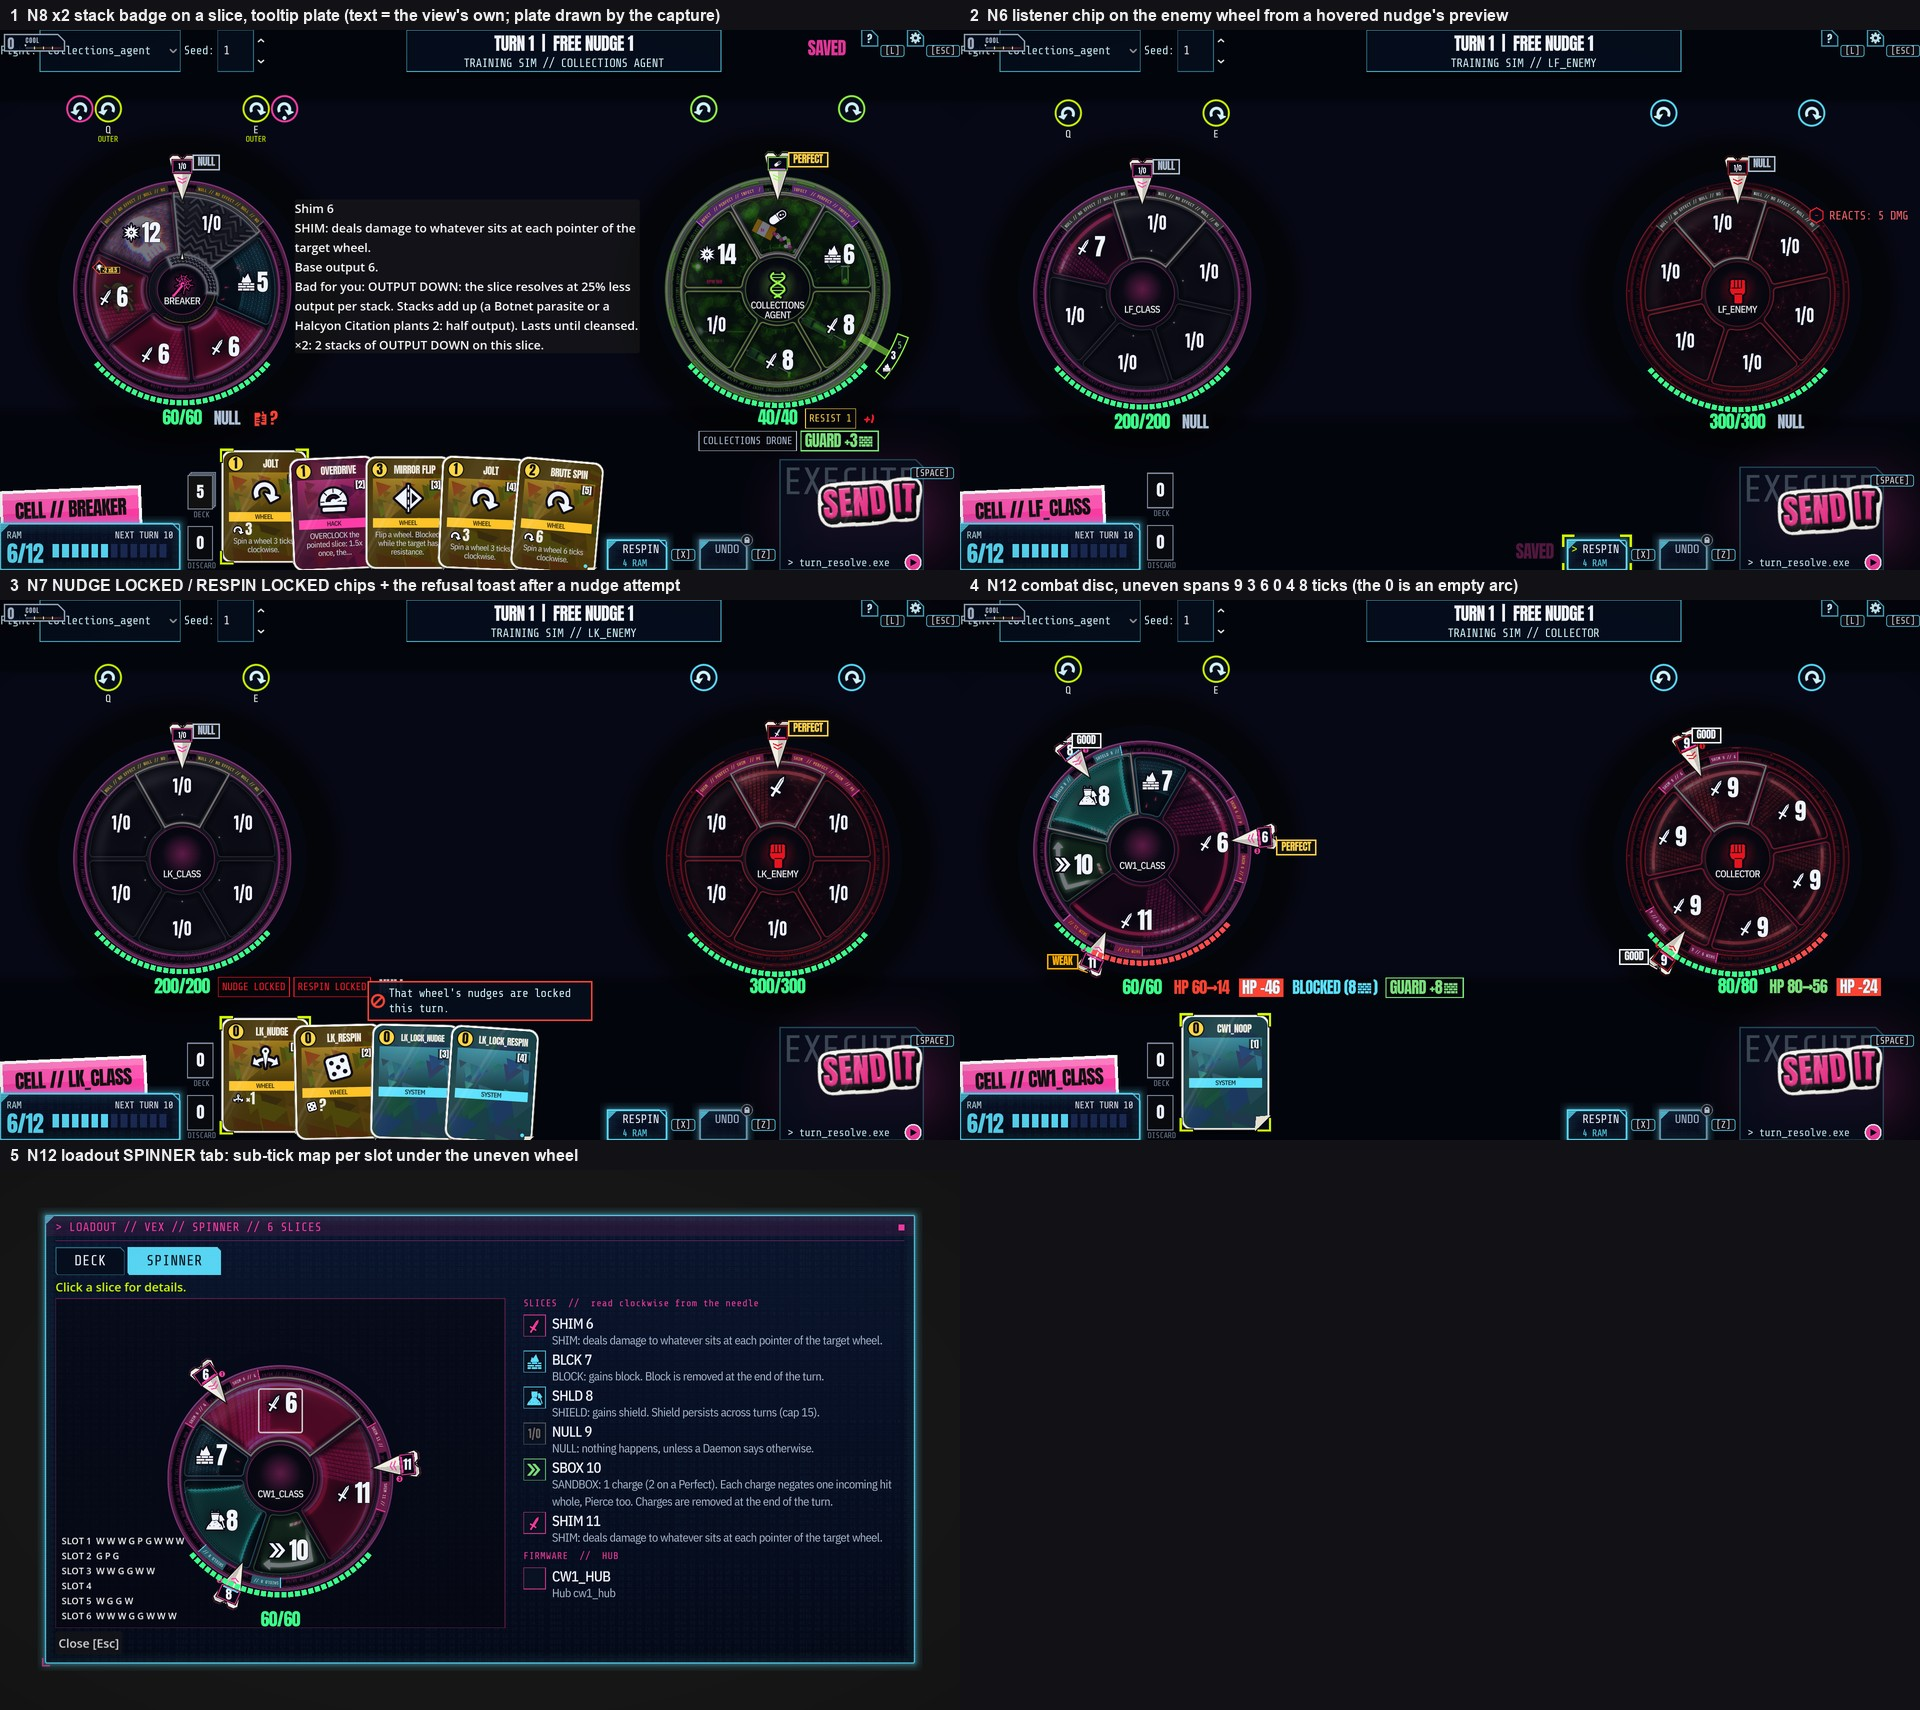
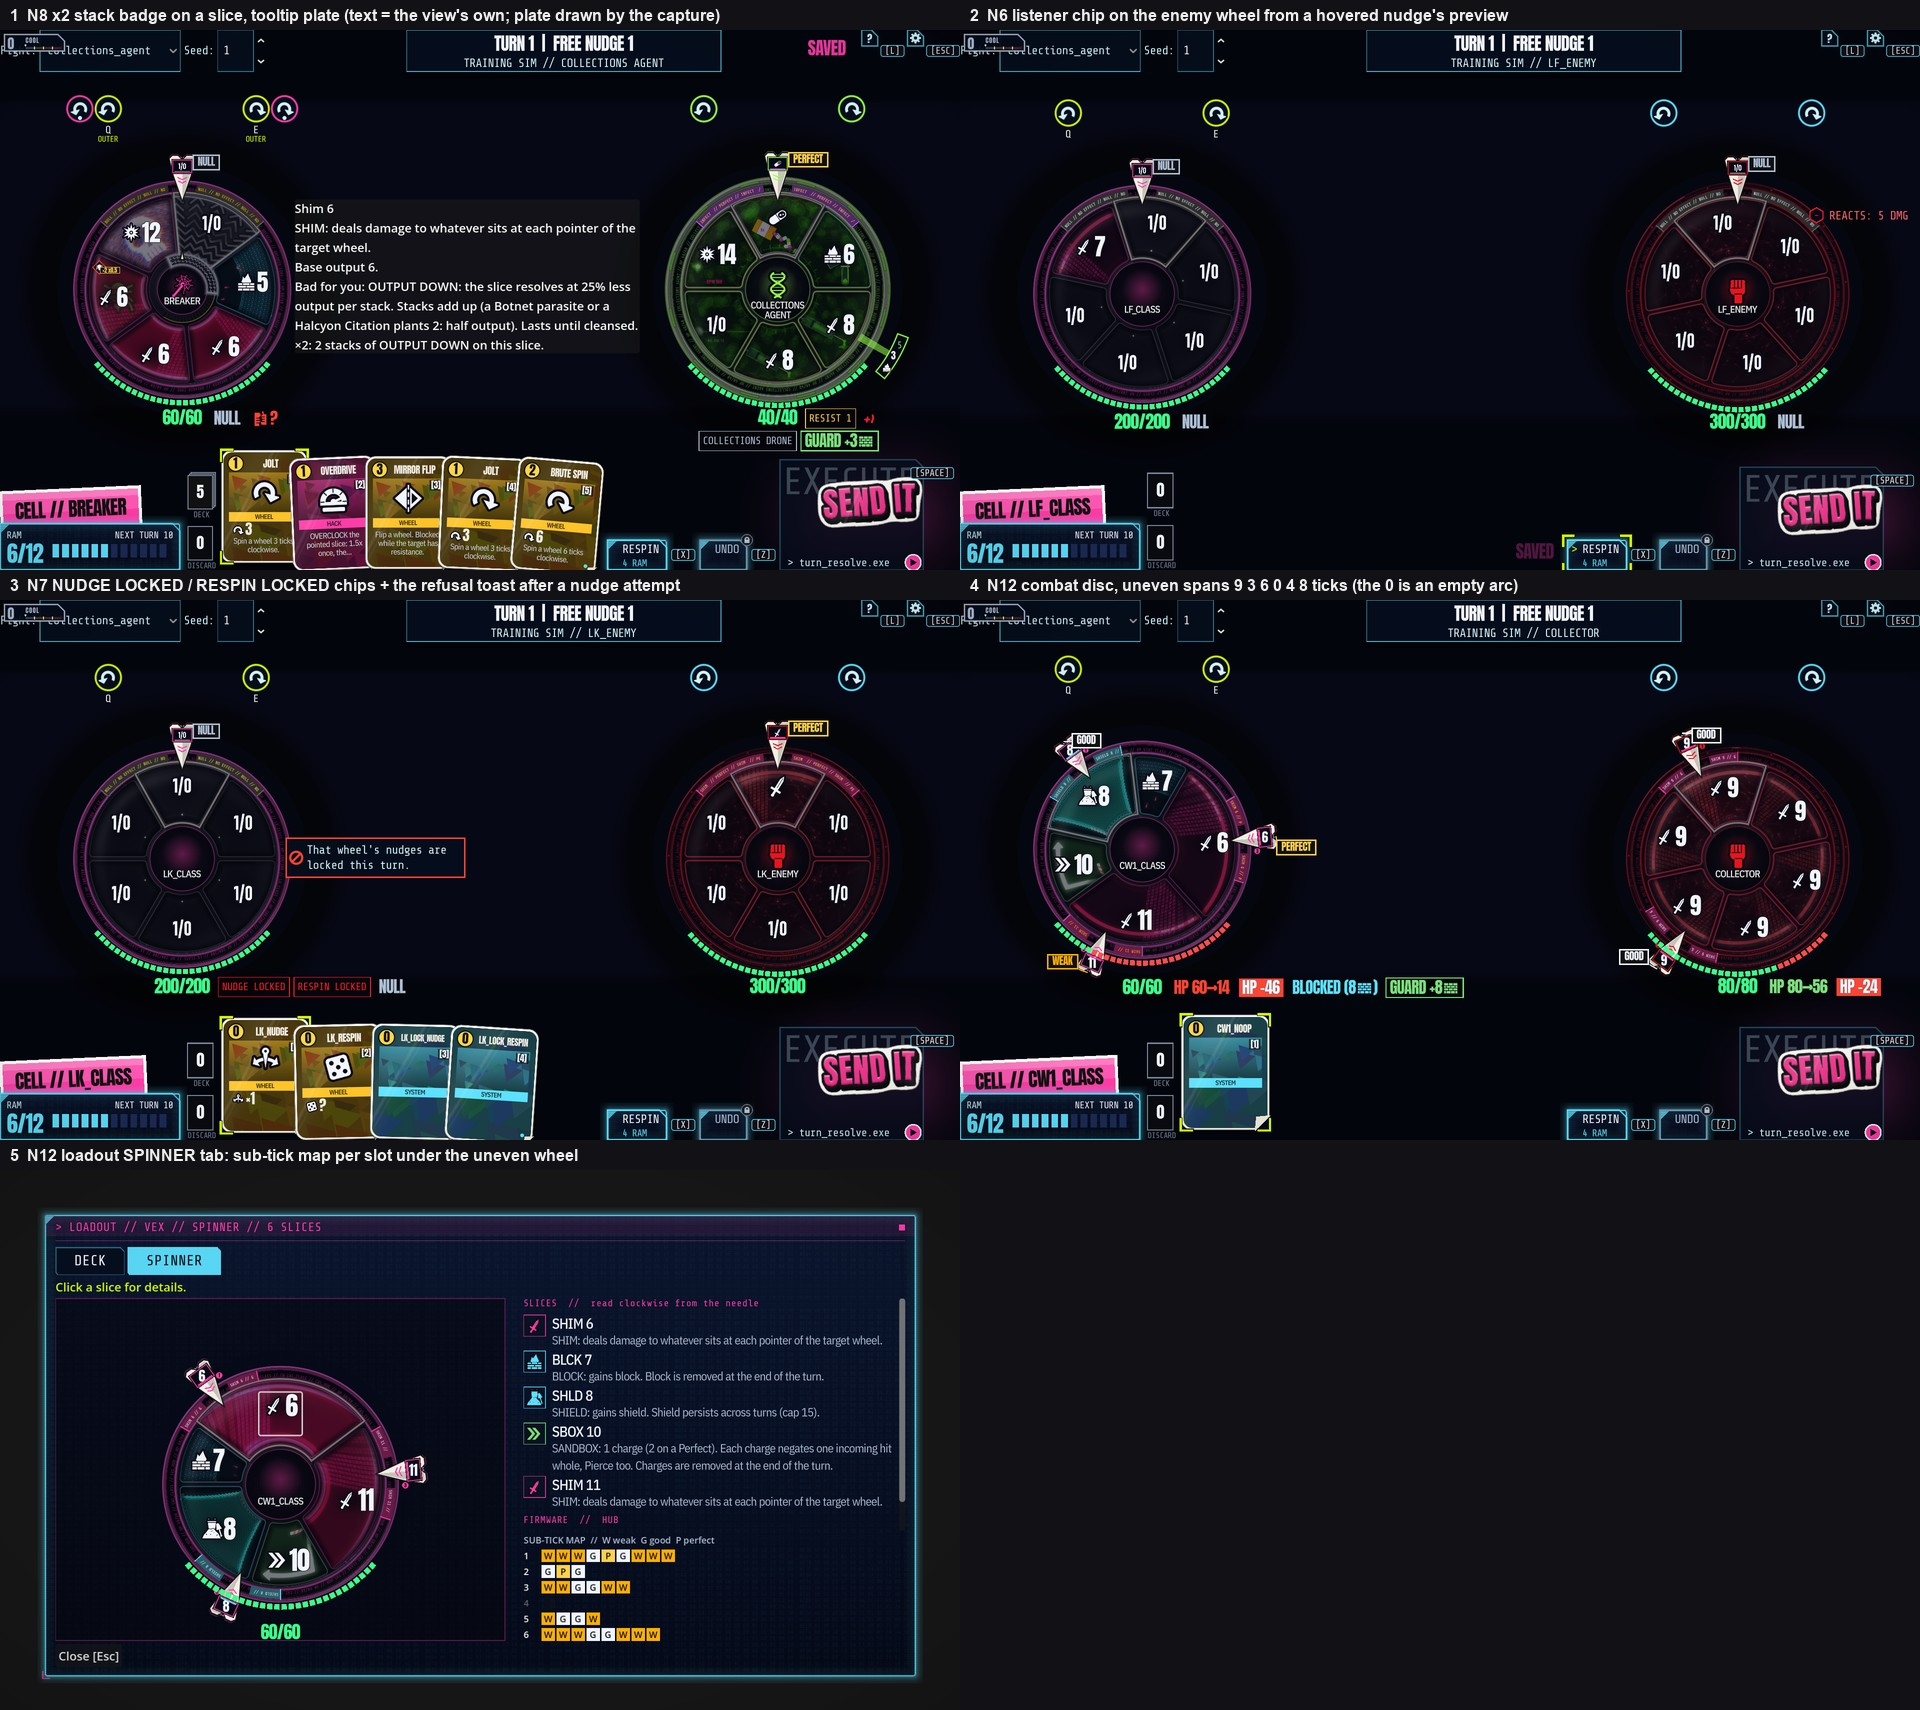
W1 N12b combat: CAP-W1 fixes (lock toast beside wheel, tick-cell sub-tick map, empty arc row hidden, span uniform removed)

Changed region(s): [[0.0312, 0.7439, 0.5, 0.9918], [0.1875, 0.5579, 0.3125, 0.6199], [0.125, 0.4959, 0.2188, 0.5269]]

diff --git a/docs/DECISIONS.md b/docs/DECISIONS.md
@@ -34,7 +34,7 @@ search every ruling with `grep -rn "<topic>" docs/DECISIONS.md docs/decisions/`.
 
 ## Implementation decisions
 
-- **2026-10-19 W1 N12b + CAP-W1: the combat disc draws uneven spans; capture sheet `docs/art_review/PLAN2/CAP_W1.jpg`.** The shader's single `span` is replaced by `spans[8]` (degrees per slot) fed by `WheelDisc.slot_spans(sizes, deg_per_tick)`, read off WheelMath's cumulative boundaries (`slot_starts`); the slice under a pixel is the arc it lies most inside (not the nearest middle), an empty arc (span 0) draws no tile and is never picked, and the lifted slice outline uses its own span. `WheelView` draws no face, badge, outline or wedge for a 0-size slot (before: its "1/0" label overprinted the neighbour). Test: `test_disc_shader_spans_equal_wheelmath_boundaries` (shader spans = boundary gaps = sizes, 0 for an empty arc, fill 360 degrees over 50 seeded layouts). Loadout sub-tick map: it already came from WheelMath (N12); it moved from the view's bottom-left (it overran the Close button) into the spinner wheel pool's bottom-left corner (`SpinnerView.add_wheel_note`, CAPTION font). Open (not changed): the loadout's slice list still has a row for an empty arc ("NULL 9"); the combat disc's old `span` uniform stays declared (unused default). CAP-W1 sheet panels: N8 x2 badge + tooltip (the tooltip plate is drawn by the capture: native tooltips never open in the quiet window; its text is the view's own `_slice_label`), N6 listener chip, N7 lock chips + refusal toast, N12 uneven disc, N12 loadout map. Capture: `tools/design_lab/plan2_w1_combat_capture.tscn`.
+- **2026-10-19 W1 N12b + CAP-W1: the combat disc draws uneven spans; capture sheet `docs/art_review/PLAN2/CAP_W1.jpg`.** The shader's single `span` is replaced by `spans[8]` (degrees per slot) fed by `WheelDisc.slot_spans(sizes, deg_per_tick)`, read off WheelMath's cumulative boundaries (`slot_starts`); the slice under a pixel is the arc it lies most inside (not the nearest middle), an empty arc (span 0) draws no tile and is never picked, and the lifted slice outline uses its own span. `WheelView` draws no face, badge, outline or wedge for a 0-size slot (before: its "1/0" label overprinted the neighbour). Test: `test_disc_shader_spans_equal_wheelmath_boundaries` (shader spans = boundary gaps = sizes, 0 for an empty arc, fill 360 degrees over 50 seeded layouts). Loadout sub-tick map: it already came from WheelMath (N12); it moved from the view's bottom-left (it overran the Close button) into the spinner wheel pool's bottom-left corner (`SpinnerView.add_wheel_note`, CAPTION font). Open (not changed): the loadout's slice list still has a row for an empty arc ("NULL 9"); the combat disc's old `span` uniform stays declared (unused default). **Art-pass fixes (CAP-W1 approved with two):** the lock refusal toast now stands beside the locked wheel (`Toast.show_beside`, `CombatScene._locked_view`), clear of the HP row, chips and NULL label; the loadout map is a row of cells per slot (slot number, one cell per tick, letter on `PointerTag.tint` of that tier, a dim empty row for an empty arc) pinned under the scrolling rows in the spinner's right column (`SpinnerView.add_rows_section`, `D4_MAP_H`); the empty arc's row is gone from the slice list; the unused `span` uniform is removed. The live N8 tooltip (`WheelView._get_tooltip` at the slice) equals `_slice_label` (capture prints `TIP_MATCH true`); the capture's plate now shows that live text. (Superseded: the first map placement in the pool corner.) CAP-W1 sheet panels: N8 x2 badge + tooltip (the tooltip plate is drawn by the capture: native tooltips never open in the quiet window; its text is the view's own `_slice_label`), N6 listener chip, N7 lock chips + refusal toast, N12 uneven disc, N12 loadout map. Capture: `tools/design_lab/plan2_w1_combat_capture.tscn`.
 
 - **2026-10-19 W1 MOTION-TIMINGS (overnight defaults, designer may revisit): scope is only `combat_fx_layer` and `wheel_view` (other combat views stay out); related ids may share one lab demo entry (every id still exercised).** 19 inline fractions (`dur * 0.2`-style, the wall/corrupt/drone/nudge/trigger/label/defeat bit timings, `WORD_HOLD`) became shares in `ui_motion.tres` (amplitude = the share, ALWAYS_ON tunings, REQUIRED_IDS, lab demo = the effect they tune); values equal the old literals. Named consts in the two files (e.g. `TEAR_SECONDS`, `STREAM_STAGGER`, `SETTLE_SHARE`) are curve or layout constants and stay. NA-26: `CityMapOverlay` now asks `Motion.live(&"route_target_pulse")` (off = no swell), the id left AWAITING_FIX; dead `CityMapOverlay.hover_out` (with `route_hover_out` calls) and the lab's `_staying_node` removed. Supersedes the NA-26 follow-up note below.
 
